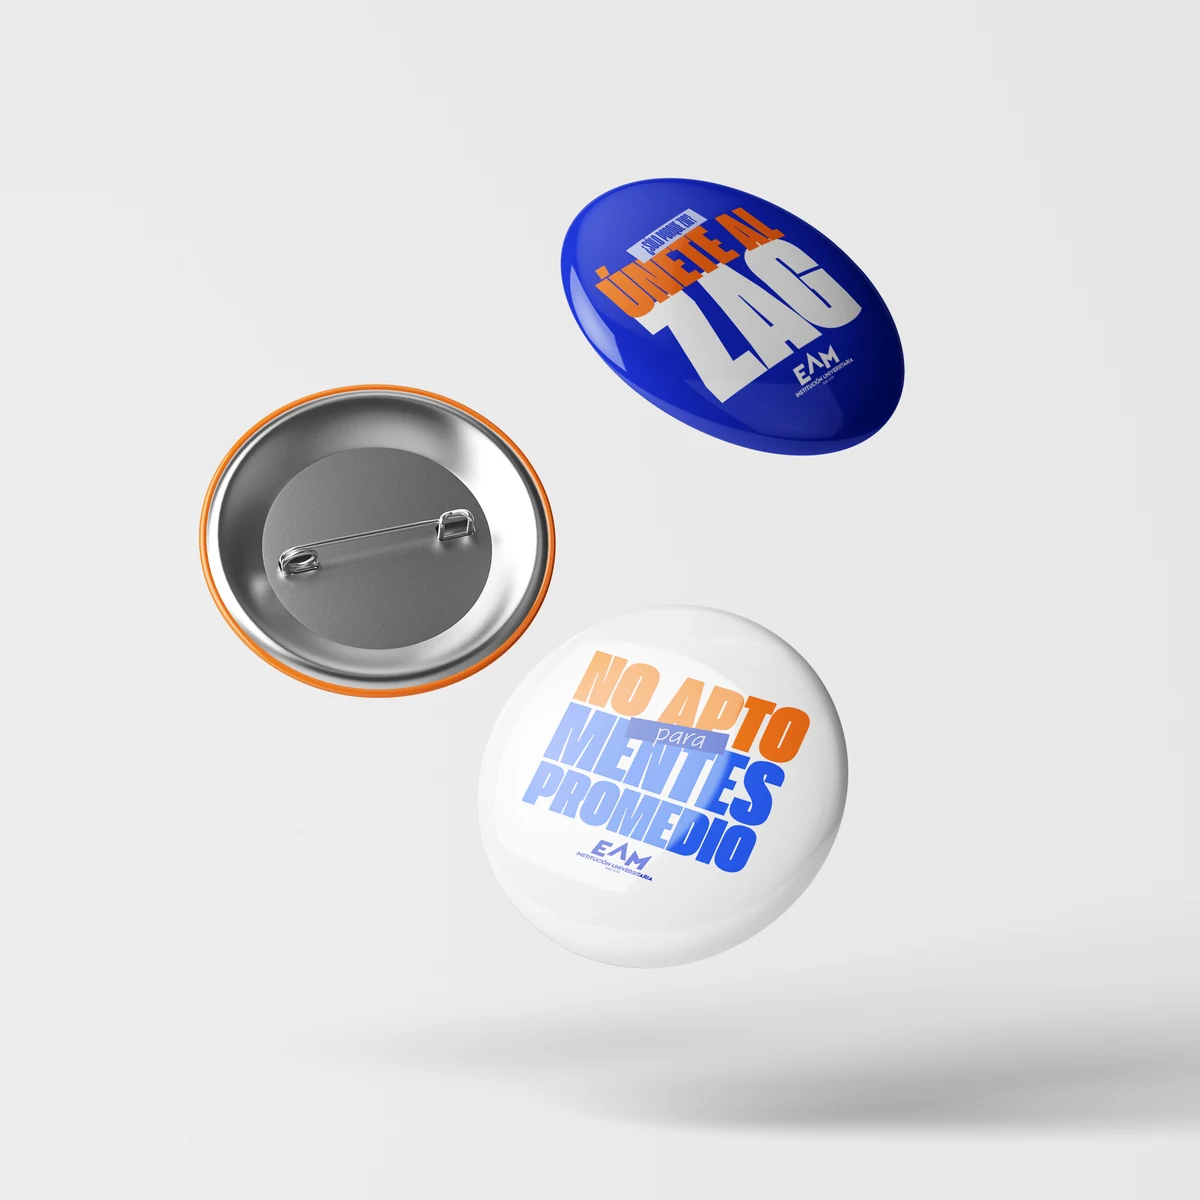
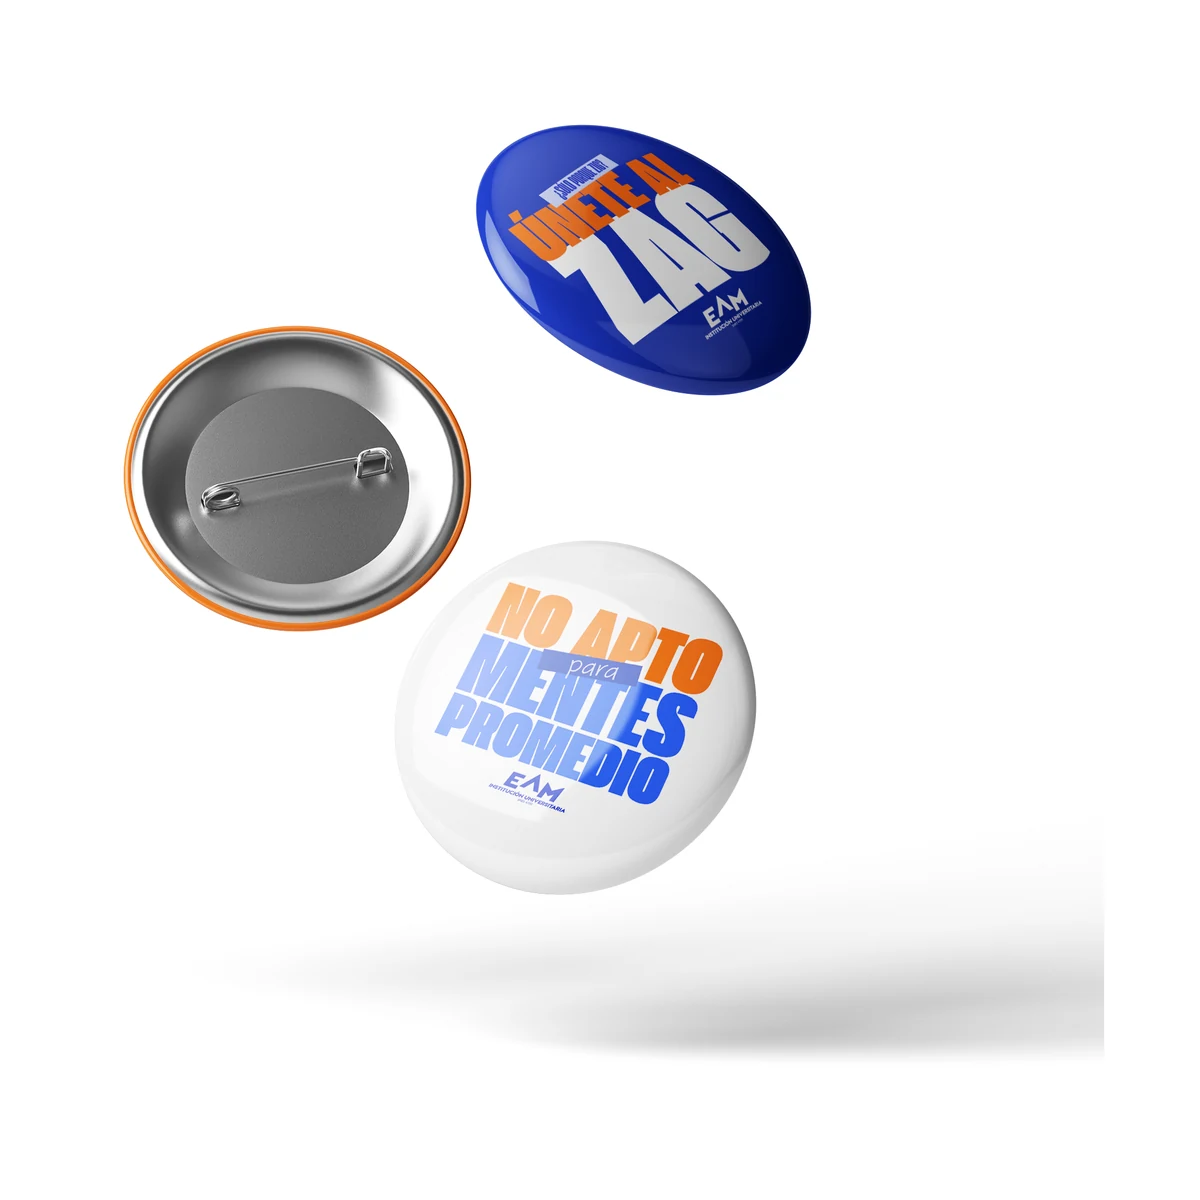
Tienda: carrusel en stickers y tote bag, arreglo de 'Elige talla' y unisex, nueva foto de botones

diff --git a/js/tienda.js b/js/tienda.js
@@ -62,6 +62,86 @@
     return img;
   }
 
+  /* Carrusel de fotos de un producto (p.imgs, más de una). Desliza con el dedo
+     o con las flechas; los puntos indican en cuál va. Si el producto trae una
+     sola foto devuelve la imagen normal. */
+  function galeriaProducto(p, eager) {
+    var fotos = p.imgs && p.imgs.length > 1 ? p.imgs : null;
+    if (!fotos) return eager ? imagenPrecargada(p) : imagenProducto(p);
+
+    var gal = document.createElement('div');
+    gal.className = 'td-gal';
+    gal.setAttribute('role', 'group');
+    gal.setAttribute('aria-roledescription', 'carrusel');
+    gal.setAttribute('aria-label', 'Fotos de ' + p.nombre);
+
+    var pista = document.createElement('div');
+    pista.className = 'td-gal__pista';
+    fotos.forEach(function (src, i) {
+      var slide = document.createElement('div');
+      slide.className = 'td-gal__slide';
+      slide.setAttribute('aria-label', 'Foto ' + (i + 1) + ' de ' + fotos.length);
+      var img = document.createElement('img');
+      img.alt = (p.alt || p.nombre) + ' (' + (i + 1) + ' de ' + fotos.length + ')';
+      img.loading = (eager && i === 0) ? 'eager' : 'lazy';
+      img.decoding = 'async';
+      img.src = src;
+      slide.appendChild(img);
+      pista.appendChild(slide);
+    });
+    gal.appendChild(pista);
+
+    var puntos = document.createElement('div');
+    puntos.className = 'td-gal__puntos';
+    puntos.setAttribute('aria-hidden', 'true');
+    fotos.forEach(function (_, i) {
+      var d = document.createElement('span');
+      if (i === 0) d.className = 'is-activo';
+      puntos.appendChild(d);
+    });
+
+    var actual = 0;
+    function marcar(i) {
+      actual = i;
+      Array.prototype.forEach.call(puntos.children, function (d, k) {
+        d.classList.toggle('is-activo', k === i);
+      });
+    }
+    function ir(i) {
+      i = Math.max(0, Math.min(fotos.length - 1, i));
+      pista.scrollTo({ left: i * pista.clientWidth, behavior: 'smooth' });
+      marcar(i);
+    }
+    pista.addEventListener('scroll', function () {
+      var w = pista.clientWidth;
+      if (!w) return;
+      var i = Math.round(pista.scrollLeft / w);
+      if (i !== actual) marcar(i);
+    }, { passive: true });
+
+    function flecha(dir, texto, etiqueta) {
+      var b = document.createElement('button');
+      b.type = 'button';
+      b.className = 'td-gal__btn td-gal__btn--' + (dir < 0 ? 'prev' : 'next');
+      b.setAttribute('aria-label', etiqueta);
+      b.textContent = texto;
+      b.addEventListener('click', function (e) {
+        e.stopPropagation();
+        /* da la vuelta: de la última vuelve a la primera */
+        var i = actual + dir;
+        if (i < 0) i = fotos.length - 1;
+        if (i >= fotos.length) i = 0;
+        ir(i);
+      });
+      b.addEventListener('keydown', function (e) { e.stopPropagation(); });
+      return b;
+    }
+    gal.appendChild(flecha(-1, '‹', 'Foto anterior'));
+    gal.appendChild(flecha(1, '›', 'Foto siguiente'));
+    gal.appendChild(puntos);
+    return gal;
+  }
+
   /* Un <img> sin src, paraprecargado: la ficha grande y el banner no
      deben parpadear mientras baja la foto. */
   function imagenPrecargada(p) {
@@ -524,7 +604,7 @@
       foto.appendChild(lock);
     }
 
-    foto.appendChild(imagenProducto(p));
+    foto.appendChild(galeriaProducto(p, false));
     card.appendChild(foto);
 
     var body = el('div', 'td-card__body');
@@ -548,6 +628,8 @@
 
     if (!bloqueado) body.appendChild(el('p', 'td-card__desc', p.descripcion));
     if (D.tieneTallas(p)) body.appendChild(el('p', 'td-card__desc', 'Tallas S a XL · unisex'));
+    /* La píldora va dentro del flujo del texto, debajo de las tallas: así nunca se monta encima. */
+    if (!bloqueado && D.tieneTallas(p)) body.appendChild(el('span', 'td-card--talla', 'Elige talla'));
     card.appendChild(body);
 
     card.style.cursor = 'pointer';
@@ -557,7 +639,7 @@
       ? p.nombre + ', bloqueado. Se desbloquea en ' + D.nivelNombre(p.nivel)
       : p.nombre + ', ver ficha');
     card.addEventListener('click', function (e) {
-      if (e.target.closest('.td-card__add')) return;
+      if (e.target.closest('.td-card__add') || e.target.closest('.td-gal__btn')) return;
       abrirFicha(p.id);
     });
     card.addEventListener('keydown', function (e) {
@@ -568,10 +650,6 @@
     });
 
     if (bloqueado) return card;
-
-    if (D.tieneTallas(p)) {
-      card.appendChild(el('span', 'td-card--talla', 'Elige talla'));
-    }
 
     if (!agotado) {
       var add = el('button', 'td-card__add', '+');
@@ -702,7 +780,7 @@
 
     /* ---- Izquierda: la foto ---- */
     var foto = el('div', 'td-ficha__foto');
-    foto.appendChild(imagenPrecargada(p));
+    foto.appendChild(galeriaProducto(p, true));
     grid.appendChild(foto);
 
     /* ---- Derecha: los datos ---- */
@@ -745,7 +823,7 @@
       });
       body.appendChild(grupo);
 
-      var nota = el('p', 'td-tallas__nota', 'Unisex. ' + UI.ficha.notaNiveles);
+      var nota = el('p', 'td-tallas__nota', UI.ficha.notaNiveles);
       body.appendChild(nota);
 
       var btnGuia = el('button', 'td-guia-btn', UI.ficha.guiaTallas);

diff --git a/css/tienda.css b/css/tienda.css
@@ -590,10 +590,7 @@ body.td-abierto { overflow: hidden; }
 }
 
 .td-card--talla {
-  position: absolute;
-  left: var(--s-3);
-  bottom: var(--s-3);
-  z-index: 1;
+  margin-top: var(--s-2);
   padding: 4px var(--s-2);
   border-radius: var(--radius-pill);
   background: var(--color-white);
@@ -1587,3 +1584,88 @@ body.td-abierto { overflow: hidden; }
   line-height: 1.5;
 }
 .td-terminos__ok { align-self: stretch; }
+
+/* ============================================================
+   Carrusel de fotos del producto (tarjeta y ficha)
+   ============================================================ */
+.td-gal {
+  position: relative;
+  width: 100%;
+  height: 100%;
+}
+.td-gal__pista {
+  display: flex;
+  width: 100%;
+  height: 100%;
+  overflow-x: auto;
+  overscroll-behavior-x: contain;
+  scroll-snap-type: x mandatory;
+  scrollbar-width: none;
+}
+.td-gal__pista::-webkit-scrollbar { display: none; }
+.td-gal__slide {
+  flex: 0 0 100%;
+  height: 100%;
+  scroll-snap-align: center;
+  display: flex;
+  align-items: center;
+  justify-content: center;
+}
+.td-gal__slide img {
+  width: 100%;
+  height: 100%;
+  object-fit: contain;
+}
+.td-gal__btn {
+  position: absolute;
+  top: 50%;
+  z-index: 2;
+  width: 34px;
+  height: 34px;
+  padding: 0 0 3px;
+  transform: translateY(-50%);
+  border: 1px solid var(--color-border);
+  border-radius: 50%;
+  background: var(--color-white);
+  color: var(--color-brand-deep);
+  font-size: 22px;
+  font-weight: 800;
+  line-height: 1;
+  cursor: pointer;
+  opacity: 0;
+  transition: opacity var(--dur-fast) var(--ease-out);
+}
+.td-gal__btn--prev { left: -6px; }
+.td-gal__btn--next { right: -6px; }
+.td-gal:hover .td-gal__btn,
+.td-gal__btn:focus-visible { opacity: 1; }
+.td-gal__btn:focus-visible { outline: 3px solid var(--color-focus); outline-offset: 2px; }
+@media (hover: none) {
+  .td-gal__btn { opacity: 0.9; width: 30px; height: 30px; font-size: 20px; }
+}
+.td-gal__puntos {
+  position: absolute;
+  left: 0;
+  right: 0;
+  bottom: -6px;
+  display: flex;
+  justify-content: center;
+  gap: 5px;
+  pointer-events: none;
+}
+.td-gal__puntos span {
+  width: 6px;
+  height: 6px;
+  border-radius: 50%;
+  background: var(--color-border-strong);
+  opacity: 0.45;
+  transition: opacity var(--dur-fast) var(--ease-out), background var(--dur-fast) var(--ease-out);
+}
+.td-gal__puntos span.is-activo { background: var(--color-cta); opacity: 1; }
+.td-ficha__foto .td-gal { max-width: 380px; aspect-ratio: 1 / 1; height: auto; }
+.td-ficha__foto .td-gal__btn--prev { left: 0; }
+.td-ficha__foto .td-gal__btn--next { right: 0; }
+.td-ficha__foto .td-gal__puntos { bottom: 6px; }
+@media (prefers-reduced-motion: reduce) {
+  .td-gal__pista { scroll-behavior: auto; }
+}

diff --git a/js/tienda-data.js b/js/tienda-data.js
@@ -76,6 +76,15 @@ window.ZAG_TIENDA = (function () {
       categoria: 'accesorios',
       descripcion: 'Los de siempre, pero pegados en la laptop y en la libreta de apuntes que nadie vuelve a abrir.',
       img: 'assets/img/merch/stickers.webp',
+      imgs: [
+        'assets/img/merch/stickers.webp',
+        'assets/img/merch/sticker-01.webp',
+        'assets/img/merch/sticker-02.webp',
+        'assets/img/merch/sticker-03.webp',
+        'assets/img/merch/sticker-04.webp',
+        'assets/img/merch/sticker-05.webp',
+        'assets/img/merch/sticker-06.webp'
+      ],
       placeholder: 'assets/img/merch/ph-stickers.svg',
       stock: 24,
       alt: 'Pack de stickers del ZAG'
@@ -164,7 +173,7 @@ window.ZAG_TIENDA = (function () {
       nivel: 2,
       categoria: 'accesorios',
       descripcion: 'Redondo, clásico y atemporal, como las ideas que sí funcionan.',
-      img: 'assets/img/merch/boton.webp?v=2',
+      img: 'assets/img/merch/boton.webp?v=3',
       placeholder: 'assets/img/merch/ph-boton.svg',
       stock: 3,
       alt: 'Botón del ZAG'
@@ -177,6 +186,10 @@ window.ZAG_TIENDA = (function () {
       categoria: 'dia-a-dia',
       descripcion: 'Para la maleta, el mercado o la clase a la que llegas tarde.',
       img: 'assets/img/merch/tote-bag.webp?v=2',
+      imgs: [
+        'assets/img/merch/tote-bag.webp?v=2',
+        'assets/img/merch/tote-bag-2.webp'
+      ],
       placeholder: 'assets/img/merch/ph-tote-bag.svg',
       stock: 15,
       alt: 'Tote bag del ZAG'

diff --git a/tienda.html b/tienda.html
@@ -14,7 +14,7 @@
   <link rel="preload" href="assets/fonts/Extenda-60-Giga.woff2" as="font" type="font/woff2" crossorigin>
   <link rel="stylesheet" href="css/tokens.css?v=31">
   <link rel="stylesheet" href="css/styles.css?v=32">
-  <link rel="stylesheet" href="css/tienda.css?v=8">
+  <link rel="stylesheet" href="css/tienda.css?v=9">
   <script src="js/perf.js" defer></script>
   <script src="js/volver-arriba.js" defer></script>
   <script src="js/content.js?v=40" defer></script>
@@ -22,9 +22,9 @@
   <script src="js/perfil-links.js?v=10" defer></script>
   <script src="js/zag-session.js?v=34" defer></script>
   <script src="js/zag-reserva.js?v=1" defer></script>
-  <script src="js/tienda-data.js?v=10" defer></script>
+  <script src="js/tienda-data.js?v=12" defer></script>
   <script src="js/tienda-carrito.js?v=2" defer></script>
-  <script src="js/tienda.js?v=7" defer></script>
+  <script src="js/tienda.js?v=9" defer></script>
 </head>
 <body class="tienda-body">
   <a class="skip-link" href="#main">Saltar al contenido</a>

diff --git a/checkout.html b/checkout.html
@@ -14,7 +14,7 @@
   <link rel="preload" href="assets/fonts/Extenda-60-Giga.woff2" as="font" type="font/woff2" crossorigin>
   <link rel="stylesheet" href="css/tokens.css?v=31">
   <link rel="stylesheet" href="css/styles.css?v=32">
-  <link rel="stylesheet" href="css/tienda.css?v=6">
+  <link rel="stylesheet" href="css/tienda.css?v=9">
   <script src="js/perf.js" defer></script>
   <script src="js/volver-arriba.js" defer></script>
   <script src="js/content.js?v=40" defer></script>
@@ -22,7 +22,7 @@
   <script src="js/perfil-links.js?v=10" defer></script>
   <script src="js/zag-session.js?v=34" defer></script>
   <script src="js/zag-reserva.js?v=1" defer></script>
-  <script src="js/tienda-data.js?v=10" defer></script>
+  <script src="js/tienda-data.js?v=12" defer></script>
   <script src="js/tienda-carrito.js?v=2" defer></script>
   <script src="js/checkout.js?v=2" defer></script>
 </head>
